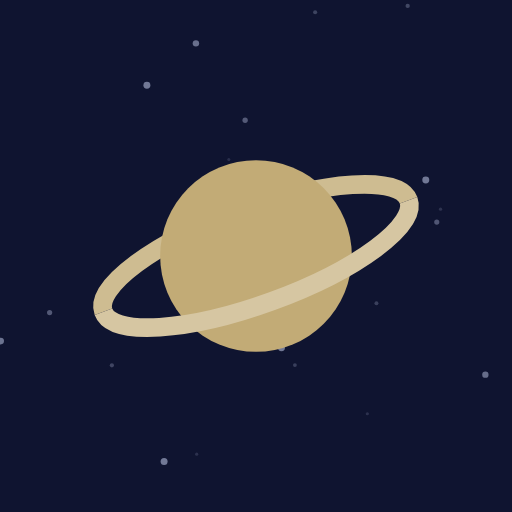
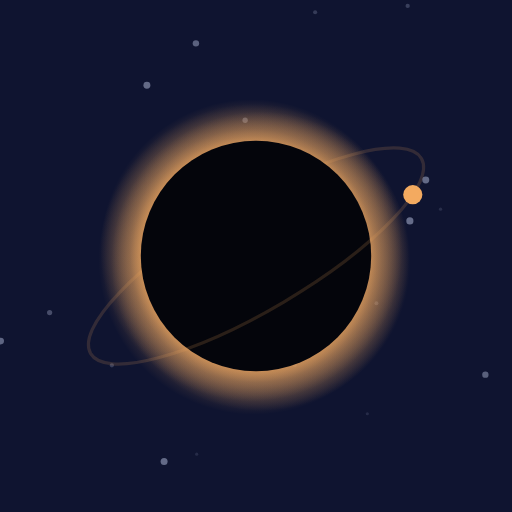
LAPIS v0.3.2: 星を色だけの円にし、縁に皆既日食のような漂う光、ときどき小さな衛星
Claude-Session: https://claude.ai/code/session_013kTsaggQbE5J8PEFawtjNx

Changed region(s): [[0.1562, 0.1875, 0.8438, 0.8125]]

diff --git a/index.html b/index.html
@@ -102,8 +102,9 @@ footer{width:100%;display:grid;grid-template-columns:auto 1fr auto;gap:10px;alig
 <div class="ov" id="ov"><div class="panel" id="pn"></div></div>
 <script>
 {
-const VER='0.3.1';
+const VER='0.3.2';
 const CHANGES=[
+  ['0.3.2','2026-11-23',['🌘 星を、色だけのまるに変えました。縁には皆既日食のような光が、ふわりとにじみます','🛰 ときどき、小さな衛星を連れた星があらわれます']],
   ['0.3.1','2026-11-23',['🎨 見た目をフラットデザインにして、目にやさしくしました','🌑 宇宙の色を、より深く静かな色合いにしました']],
   ['0.3.0','2026-11-23',['🪐 テーマを宇宙にしました。重力の中心のまわりを、星がゆっくり回ります','🌌 宇宙のチリから銀河まで、18種類の星に育ちます。図鑑に名前も出るようにしました','🎵 BGMを宇宙らしく響くようにしました']],
   ['0.2.2','2026-11-23',['📱 ゲーム一覧から開いたとき、画面の下のボタンが隠れてしまうことがあったのを直しました']],
@@ -116,11 +117,11 @@ const CHANGES=[
 const SHARE_URL='https://docs.google.com/forms/d/e/1FAIpQLSdBYhk-U-cjLdqGzrHpWG4x-LAaB3AlzoVNhb-Pl8HXOlhq8g/formResponse',SHARE_ENTRY='entry.2069165999';
 const FONT="'M PLUS Rounded 1c',system-ui,sans-serif";
 const BODIES=[
-  ['宇宙のチリ','dust','#857f74'],['小石','pebble','#7b7065'],['小惑星','asteroid','#6c7280'],['月','moon','#aeb3bf'],
-  ['赤い惑星','mars','#a85a3f'],['水の惑星','earth','#3a68a3'],['ガス惑星','gas','#b8935f'],['環のある惑星','ringed','#c2ab76'],
-  ['氷の惑星','ice','#5a93ba'],['赤い星','rstar','#c95544'],['太陽','sun','#dcae48'],['青い星','bstar','#6f99d6'],
-  ['赤色巨星','giant','#cf6d48'],['白色矮星','dwarf','#dde2f0'],['パルサー','pulsar','#9285d8'],['星雲','nebula','#8f6aa0'],
-  ['ブラックホール','hole','#05060d'],['銀河','galaxy','#cdbb8f']
+  ['宇宙のチリ','p','#4f4c48','#8c867b'],['小石','p','#6e5f50','#a8927a'],['小惑星','p','#5d6371','#9aa4bb'],['月','p','#b3b7c1','#e8ecf5'],
+  ['赤い惑星','p','#9b4a35','#e27c58'],['水の惑星','p','#2c5996','#73adff'],['ガス惑星','p','#a98150','#ebc289'],['環のある惑星','p','#bfa673','#f1dfae'],
+  ['氷の惑星','p','#468aae','#a6e2ff'],['赤い星','s','#b9402f','#ff7458'],['太陽','s','#d9a136','#ffd57a'],['青い星','s','#5585d6','#a9caff'],
+  ['赤色巨星','s','#c95c38','#ff9d62'],['白色矮星','s','#e3e7f2','#ffffff'],['パルサー','s','#7064cf','#bcaeff'],['星雲','s','#86569a','#f19ad9'],
+  ['ブラックホール','h','#04050b','#f3aa60'],['銀河','s','#3a306e','#f4dca4']
 ];
 let NOW=0,ROT=0,lastT=0;
 const $=s=>document.querySelector(s);
@@ -257,52 +258,46 @@ function shadeA(hex,k,a){return shade(hex,k).replace('rgb(','rgba(').replace(')'
 function rgba(hex,a){const n=parseInt(hex.slice(1),16);return`rgba(${n>>16},${n>>8&255},${n&255},${a})`}
 function bodyOf(v){return BODIES[(v-1)%BODIES.length]}
 function bodyName(v){const g=Math.floor((v-1)/BODIES.length);return bodyOf(v)[0]+(g?' '+'✦'.repeat(Math.min(g,3)):'')}
-function gemColor(v){const c=bodyOf(v)[2];return c==='#05060d'?'#d98b4a':c}
+function gemColor(v){return bodyOf(v)[3]}
 function hr(v,i){const s=Math.sin(v*12.9898+i*78.233)*43758.5453;return s-Math.floor(s)}
-function glow(c,x,y,r0,r1,col,a){const g=c.createRadialGradient(x,y,r0,x,y,r1);g.addColorStop(0,rgba(col,a));g.addColorStop(1,rgba(col,0));c.fillStyle=g;c.beginPath();c.arc(x,y,r1,0,TAU);c.fill()}
-function sphere(c,x,y,r,col){const g=c.createRadialGradient(x-r*.35,y-r*.38,r*.08,x,y,r);g.addColorStop(0,shade(col,.35));g.addColorStop(.6,col);g.addColorStop(1,shade(col,-.5));c.fillStyle=g;c.beginPath();c.arc(x,y,r,0,TAU);c.fill()}
-function terminator(c,x,y,r){const g=c.createRadialGradient(x-r*.35,y-r*.4,r*.2,x,y,r);g.addColorStop(0,'rgba(255,255,255,.12)');g.addColorStop(.65,'rgba(0,0,0,0)');g.addColorStop(1,'rgba(8,10,30,.55)');c.fillStyle=g;c.beginPath();c.arc(x,y,r,0,TAU);c.fill()}
-function clip(c,x,y,r){c.save();c.beginPath();c.arc(x,y,r,0,TAU);c.clip()}
-function craters(c,x,y,r,v,n,col){for(let i=0;i<n;i++){const a=hr(v,i+3)*TAU,d=Math.sqrt(hr(v,i+9))*r*.62,s=r*(.12+hr(v,i+15)*.12),px=x+Math.cos(a)*d,py=y+Math.sin(a)*d;c.fillStyle=shade(col,-.28);c.beginPath();c.arc(px,py,s,0,TAU);c.fill();c.strokeStyle='rgba(255,255,255,.22)';c.lineWidth=Math.max(.6,s*.25);c.beginPath();c.arc(px,py,s,Math.PI*.9,Math.PI*1.7);c.stroke()}}
 function lum(hex){const n=parseInt(hex.slice(1),16),f=z=>{z/=255;return z<=.03928?z/12.92:Math.pow((z+.055)/1.055,2.4)};return .2126*f(n>>16)+.7152*f(n>>8&255)+.0722*f(n&255)}
 function disc(c,x,y,r,col){c.fillStyle=col;c.beginPath();c.arc(x,y,r,0,TAU);c.fill()}
-function blob(c,x,y,r,v,amp){c.beginPath();const N=12;for(let i=0;i<N;i++){const a=i/N*TAU,q=r*(1-amp/2+hr(v,i)*amp);i?c.lineTo(x+Math.cos(a)*q,y+Math.sin(a)*q):c.moveTo(x+Math.cos(a)*q,y+Math.sin(a)*q)}c.closePath();c.fill()}
-function dots(c,x,y,r,v,n,col,s0,s1){c.fillStyle=col;for(let i=0;i<n;i++){const a=hr(v,i+3)*TAU,d=Math.sqrt(hr(v,i+9))*r,z=r*(s0+hr(v,i+15)*s1);c.beginPath();c.arc(x+Math.cos(a)*d,y+Math.sin(a)*d,z,0,TAU);c.fill()}}
-function ringHalf(c,x,y,r,col,front){c.save();c.translate(x,y);c.rotate(-.35);c.lineWidth=r*.14;c.strokeStyle=col;c.beginPath();c.ellipse(0,0,r*1.22,r*.36,0,front?0:Math.PI,front?Math.PI:TAU);c.stroke();c.restore()}
-function drawBody(c,x,y,r,v,t){
-  t=t||0;const b=bodyOf(v),k=b[1],col=b[2],g=Math.floor((v-1)/BODIES.length);
-  let ink='#ffffff';
+/* 縁の光: 皆既日食のコロナのように、ふわふわ漂う控えめなにじみ */
+function corona(c,x,y,r,col,spread,seed,t,a0){
+  for(let i=0;i<3;i++){
+    const ph=t/(2600+i*900)+seed*6.283+i*2.1,off=r*.05,cx2=x+Math.cos(ph)*off,cy2=y+Math.sin(ph*1.3)*off;
+    const sp=spread*(1+.12*Math.sin(t/1700+i+seed*9)),g=c.createRadialGradient(cx2,cy2,r*.92,cx2,cy2,r*(1+sp));
+    g.addColorStop(0,rgba(col,a0*(.9+.1*Math.sin(t/1300+i))));g.addColorStop(.35,rgba(col,a0*.45));g.addColorStop(1,rgba(col,0));
+    c.fillStyle=g;c.beginPath();c.arc(cx2,cy2,r*(1+sp),0,TAU);c.fill();
+  }
+}
+/* 小さな衛星: 傾いた楕円軌道を回る点。奥側は星の後ろに隠れる */
+function satPath(c,x,y,r,tilt,col,front){c.save();c.translate(x,y);c.rotate(tilt);c.lineWidth=Math.max(.6,r*.025);c.strokeStyle=rgba(col,.16);c.beginPath();c.ellipse(0,0,r*1.5,r*.42,0,front?0:Math.PI,front?Math.PI:TAU);c.stroke();c.restore()}
+function satDot(c,x,y,r,tilt,ph,col,front){const sn=Math.sin(ph);if((sn>=0)!==front)return;const ex=Math.cos(ph)*r*1.5,ey=sn*r*.42,ct=Math.cos(tilt),st=Math.sin(tilt);c.fillStyle=col;c.beginPath();c.arc(x+ex*ct-ey*st,y+ex*st+ey*ct,Math.max(1.3,r*.075),0,TAU);c.fill()}
+function sats(o,v){if(bodyOf(v)[0]==='環のある惑星')return 2;if(!o||o.id==null)return 0;const h=hr(o.id,97);return h<.06?2:h<.24?1:0}
+function drawBody(c,x,y,r,v,t,o){
+  t=t||0;const b=bodyOf(v),k=b[1],col=b[2],cor=b[3],g=Math.floor((v-1)/BODIES.length);
+  const seed=o&&o.id!=null?hr(o.id,31):hr(v,31),ns=sats(o,v),tilt=-.35+(seed-.5)*.5,spd=t/(5200+seed*2600);
   c.save();
-  if(g>=1){c.lineWidth=Math.max(1,r*.07);c.strokeStyle='#cdb46a';c.beginPath();c.arc(x,y,r*1.12,0,TAU);c.stroke()}
-  if(g>=2){c.lineWidth=Math.max(1,r*.05);c.beginPath();c.arc(x,y,r*1.27,0,TAU);c.stroke()}
-  if(k==='dust'){disc(c,x,y,r*.92,rgba(col,.22));dots(c,x,y,r*.78,v,11,col,.06,.08)}
-  else if(k==='pebble'){c.fillStyle=col;blob(c,x,y,r*.82,v,.3)}
-  else if(k==='asteroid'){c.fillStyle=col;blob(c,x,y,r*.9,v,.28);dots(c,x,y,r*.5,v,3,shade(col,-.22),.12,.1)}
-  else if(k==='moon'){disc(c,x,y,r*.9,col);dots(c,x,y,r*.55,v,4,shade(col,-.14),.1,.1);ink='#1b2040'}
-  else if(k==='mars'){disc(c,x,y,r*.9,col);clip(c,x,y,r*.9);c.fillStyle=shade(col,-.2);c.beginPath();c.ellipse(x+r*.25,y+r*.2,r*.32,r*.14,.3,0,TAU);c.fill();c.fillStyle='#e9e4dc';c.beginPath();c.ellipse(x,y-r*.88,r*.45,r*.2,0,0,TAU);c.fill();c.restore()}
-  else if(k==='earth'){disc(c,x,y,r*.9,col);clip(c,x,y,r*.9);c.fillStyle='#4f8a5e';[[-.35,-.2,.4,.24,.6],[.32,.28,.34,.2,-.4],[.2,-.5,.22,.12,.2]].forEach(e=>{c.beginPath();c.ellipse(x+e[0]*r,y+e[1]*r,e[2]*r,e[3]*r,e[4],0,TAU);c.fill()});c.restore()}
-  else if(k==='gas'||k==='ice'){disc(c,x,y,r*.9,col);clip(c,x,y,r*.9);c.fillStyle=k==='ice'?shade(col,.18):shade(col,-.16);const nb=k==='ice'?2:3;for(let i=0;i<nb;i++){const yy=y-r*.9+(i+.7)*(1.8*r/(nb+.4));c.fillRect(x-r,yy,r*2,r*(k==='ice'?.14:.18))}c.restore();ink=k==='gas'?'#1b1730':ink}
-  else if(k==='ringed'){ringHalf(c,x,y,r,shade(col,.2),false);disc(c,x,y,r*.72,col);ringHalf(c,x,y,r,shade(col,.32),true);ink='#1b1730'}
-  else if(k==='rstar'||k==='sun'||k==='bstar'||k==='giant'){const big=k==='giant';disc(c,x,y,r*(big?1.3:1.2)*(1+.03*Math.sin(t/700+v)),rgba(col,.16));disc(c,x,y,r*(big?.95:.8),col);if(k==='sun')ink='#2a1e08'}
-  else if(k==='dwarf'){disc(c,x,y,r*1.15,rgba(col,.12));disc(c,x,y,r*.72,col);ink='#1b2040'}
-  else if(k==='pulsar'){c.save();c.translate(x,y);c.rotate(t/500);c.fillStyle=rgba(col,.32);for(const s2 of[1,-1]){c.beginPath();c.moveTo(-r*.12,0);c.lineTo(r*.12,0);c.lineTo(r*.28,s2*r*1.5);c.lineTo(-r*.28,s2*r*1.5);c.closePath();c.fill()}c.restore();disc(c,x,y,r*.62,col)}
-  else if(k==='nebula'){[['#8f6aa0',-.22,-.12,.62],['#4d5a99',.24,.06,.6],['#3f857f',-.04,.3,.5]].forEach(n=>disc(c,x+n[1]*r,y+n[2]*r,r*n[3],rgba(n[0],.55)))}
-  else if(k==='hole'){ringHalf(c,x,y,r*.95,'#b8713c',false);disc(c,x,y,r*.6,col);c.lineWidth=Math.max(1,r*.05);c.strokeStyle='#e0a46a';c.stroke();ringHalf(c,x,y,r*.95,'#d98b4a',true)}
-  else if(k==='galaxy'){c.save();c.translate(x,y);c.scale(1,.75);c.rotate(t/4000);for(let arm=0;arm<2;arm++)for(let i=0;i<26;i++){const a=arm*Math.PI+i*.24,d=r*(.12+i*.034),z=r*Math.max(.04,.12-i*.003);c.fillStyle=i<10?col:'#7d70bd';c.beginPath();c.arc(Math.cos(a)*d,Math.sin(a)*d,z,0,TAU);c.fill()}c.restore();disc(c,x,y,r*.22,'#efe3c2')}
-  const s=String(v),fs=r*(s.length>1?.78:.94);
+  corona(c,x,y,r*.9,cor,k==='p'?.2:k==='h'?.34:.3,seed,t,k==='p'?.42:.62);
+  if(g>=1){c.lineWidth=Math.max(.8,r*.035);c.strokeStyle=rgba('#e9cf86',.55);c.beginPath();c.arc(x,y,r*1.3,0,TAU);c.stroke()}
+  if(g>=2){c.beginPath();c.arc(x,y,r*1.42,0,TAU);c.stroke()}
+  if(ns){satPath(c,x,y,r,tilt,cor,false);for(let i=0;i<ns;i++)satDot(c,x,y,r,tilt,spd+i*Math.PI*.9,cor,false)}
+  disc(c,x,y,r*.9,col);
+  if(ns){satPath(c,x,y,r,tilt,cor,true);for(let i=0;i<ns;i++)satDot(c,x,y,r,tilt,spd+i*Math.PI*.9,cor,true)}
+  const s=String(v),fs=r*(s.length>1?.76:.92),dark=lum(col)>.42;
   c.font=`800 ${fs}px ${FONT}`;c.textAlign='center';c.textBaseline='middle';
-  if(ink==='#ffffff'){c.lineJoin='round';c.lineWidth=fs*.12;c.strokeStyle='rgba(8,10,24,.45)';c.strokeText(s,x,y+fs*.05)}
-  c.fillStyle=ink;c.fillText(s,x,y+fs*.05);
+  c.fillStyle=dark?'#1b1f3a':'#ffffff';c.fillText(s,x,y+fs*.05);
   c.restore();
 }
 function drawOrb(c,x,y,r,light,dark,sym,rim){
+  corona(c,x,y,r*.9,rim||light,.24,.3,NOW,.5);
   disc(c,x,y,r*.9,light);
-  if(rim){c.lineWidth=Math.max(1.5,r*.08);c.strokeStyle=rim;c.stroke()}
   c.strokeStyle='#fff';c.lineWidth=r*.2;c.lineCap='round';c.beginPath();
   c.moveTo(x-r*.4,y);c.lineTo(x+r*.4,y);if(sym==='+'){c.moveTo(x,y-r*.4);c.lineTo(x,y+r*.4)}c.stroke();c.lineCap='butt';
 }
 function drawPiece(c,o,x,y,r){
-  if(o.t==='n')drawBody(c,x,y,r,o.v,NOW);
+  if(o.t==='n')drawBody(c,x,y,r,o.v,NOW,o);
   else if(o.t==='p')drawOrb(c,x,y,r,'#d9705f',0,'+');
   else if(o.t==='d')drawOrb(c,x,y,r,'#1c1830',0,'+','#8a7cc9');
   else drawOrb(c,x,y,r,'#4f82bd',0,'-');

diff --git a/sw.js b/sw.js
@@ -1,5 +1,5 @@
 // LAPIS: offline cache. Network first so updates arrive; cache as fallback.
-const C='lapis-v5',FILES=['./','./index.html','./manifest.json','./icon-192.png','./icon-512.png'];
+const C='lapis-v6',FILES=['./','./index.html','./manifest.json','./icon-192.png','./icon-512.png'];
 self.addEventListener('install',e=>{e.waitUntil(caches.open(C).then(c=>c.addAll(FILES)));self.skipWaiting();});
 self.addEventListener('activate',e=>{e.waitUntil(caches.keys().then(ks=>Promise.all(ks.filter(k=>k.startsWith('lapis-')&&k!==C).map(k=>caches.delete(k)))));self.clients.claim();});
 self.addEventListener('fetch',e=>{if(e.request.method!=='GET')return;
